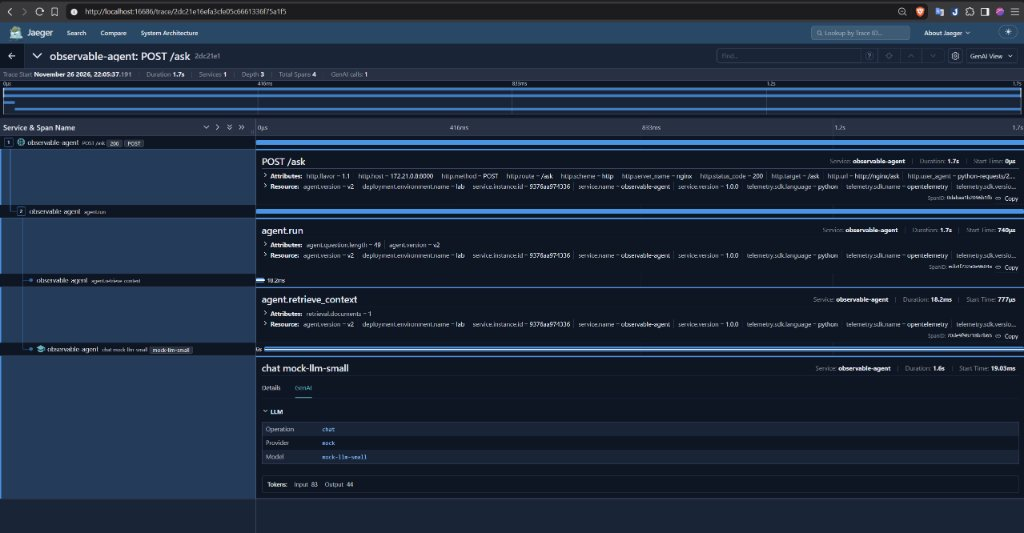
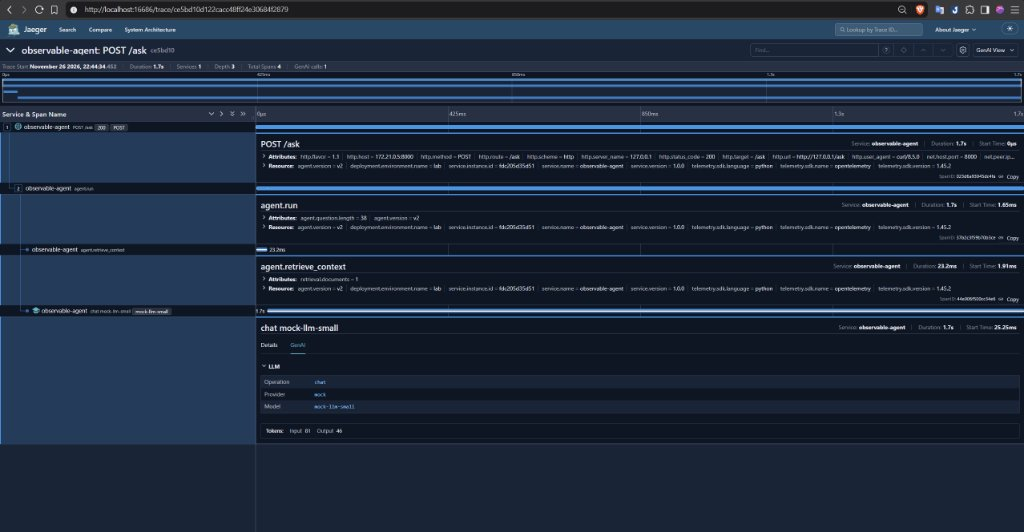
fix: add Exercise 7.1 histogram, slow trace JSON logs, and report refinements

diff --git a/06-lab-complete/benchmark-observability/develop/app.py b/06-lab-complete/benchmark-observability/develop/app.py
@@ -98,6 +98,11 @@ AGENT_INFO = Gauge(
 )
 AGENT_INFO.labels(version=AGENT_VERSION, model=LLM_MODEL).set(1)
 
+QUESTION_LENGTH = Histogram(
+    "agent_question_length_chars", "Độ dài câu hỏi (ký tự)",
+    buckets=(20, 50, 100, 200, 500, 1000, 2000),
+)
+
 # ─────────────────────────────────────────────────────────
 # App
 # ─────────────────────────────────────────────────────────
@@ -154,6 +159,7 @@ class AskResponse(BaseModel):
 
 @app.post("/ask", response_model=AskResponse)
 async def ask(body: AskRequest, request: Request):
+    QUESTION_LENGTH.observe(len(body.question))
     # v2 có bước retrieval (RAG) → chính xác hơn nhưng prompt dài hơn → tốn token hơn
     context = await mock_llm.search_knowledge_base(body.question) if AGENT_VERSION == "v2" else None
 

diff --git a/BENCHMARK_REPORT.md b/BENCHMARK_REPORT.md
@@ -20,6 +20,30 @@
 
 ## 2. Benchmark hiệu năng (develop, `load_test.py`)
 
+### Exercise 7.1 — Metrics & Cardinality (`develop/app.py`)
+
+- **3 loại metric quan sát được từ `/metrics`:**
+  - `http_requests_total{method="POST",route="/ask",status="200"} 1.0` → **Counter** (chỉ tăng, dùng với `rate()` để tính RPS).
+  - `agent_in_flight_requests 0.0` → **Gauge** (lên xuống, theo dõi số request đang xử lý tại thời điểm hiện tại).
+  - `http_request_duration_seconds_bucket{...}` → **Histogram** (phân bố độ trễ vào các bucket để tính `p50`/`p95`/`p99` qua `histogram_quantile()`).
+- **Vì sao middleware `observe_requests` dùng `route.path` (và `unmatched`) thay vì `request.url.path`?** Nếu dùng URL thô làm label, khi bot quét gửi hàng nghìn đường dẫn lạ như `/wp-admin`, `/.env`, `/a1b2c3`, mỗi URL tạo ra một time series mới làm **cardinality bùng nổ** và ngốn hết RAM của Prometheus. Dùng `route.path` template và gom URL không khớp vào `unmatched` giúp số lượng giá trị label hữu hạn.
+- **Bổ sung metric `agent_question_length_chars` (`Histogram`) vào `develop/app.py` và kiểm chứng `/metrics` sau khi gọi `POST /ask`:**
+
+```text
+http_requests_total{method="POST",route="/ask",status="200"} 1.0
+agent_in_flight_requests 0.0
+agent_question_length_chars_bucket{le="20.0"} 0.0
+agent_question_length_chars_bucket{le="50.0"} 1.0
+agent_question_length_chars_bucket{le="100.0"} 1.0
+agent_question_length_chars_bucket{le="200.0"} 1.0
+agent_question_length_chars_bucket{le="500.0"} 1.0
+agent_question_length_chars_bucket{le="1000.0"} 1.0
+agent_question_length_chars_bucket{le="2000.0"} 1.0
+agent_question_length_chars_bucket{le="+Inf"} 1.0
+agent_question_length_chars_count 1.0
+agent_question_length_chars_sum 40.0
+```
+
 ### 2.1 Concurrency vs latency (agent v2)
 
 *(Nguồn: `reports/load_v2_c1.json`, `load_v2_c10.json`, `load_v2_c50.json`, `load_v2_c100.json`, mỗi mức 300 requests, SLO p95 ≤ 500ms, error rate ≤ 2.0%)*
@@ -76,7 +100,7 @@ Agent `v2` (có bước retrieval RAG) tiêu tốn gấp ~1.9 lần token mỗi 
 
 **CI Quality Gate (`.github/workflows/eval.yml`):**
 
-Job CI khởi chạy agent `v2` với `MOCK_ERROR_RATE=0` và chạy `python eval/run_eval.py --url http://localhost:8000 --min-accuracy 0.85`. Script `run_eval.py` trả về **exit code `1`** nếu `accuracy < 0.85` hoặc có câu nào bị regression so với baseline, làm step CI fail và tự động chặn không cho merge Pull Request.
+Eval local với `--baseline` đã xác minh agent `v2` sau khi sửa `KNOWLEDGE_BASE` đạt **100.0% (23/23)** và **0 regression** (`eval_v2_fixed.json`). Về phần tự động hóa, workflow `.github/workflows/eval.yml` được cấu hình chạy khi có `pull_request` để kiểm tra ngưỡng `--min-accuracy 0.85` (hiện GitHub Actions chưa có lượt chạy do repo chỉ push trực tiếp lên `main`). Để bắt regression trên CI cần truyền thêm `--baseline`, và để tự động chặn merge cần bật job `eval` làm required status check trong cài đặt branch protection của GitHub.
 
 ---
 
@@ -116,9 +140,15 @@ Job CI khởi chạy agent `v2` với `MOCK_ERROR_RATE=0` và chạy `python eva
 
 **1. Trace chậm nhất tìm được trong Jaeger (`screenshots/jaeger-slow-trace.png`):**
 
-- `trace_id`: `2dc21e16efa3cfe05c6661336f75a1f5`
-- Tổng thời gian (`POST /ask` → `agent.run`): `1.7s` (~`1700 ms`)
-- Span chiếm nhiều thời gian nhất: `chat mock-llm-small` (`1.6s` / `1600 ms`, chiếm **~94%** tổng thời gian; bước `agent.retrieve_context` chỉ mất `18.2 ms` — chứng minh nút thắt là tail latency phía LLM chứ không phải retrieval).
+- `trace_id`: `ce5bd10d122cacc48ff24e30684f2879`
+- Tổng thời gian (`POST /ask`): `1699.3 ms` (`~1.70 s`; `agent.run`: `1696.7 ms`)
+- Span chiếm nhiều thời gian nhất: `chat mock-llm-small` (`1672.9 ms`, chiếm **98.4%** tổng thời gian; bước `agent.retrieve_context` chỉ mất `23.2 ms` — chứng minh nút thắt là tail latency phía LLM chứ không phải retrieval).
+- Dòng log JSON tương ứng (grep theo `trace_id`):
+
+```json
+{"ts": "2026-11-26T15:44:36.151054+00:00", "level": "INFO", "service": "observable-agent", "instance": "fdc205d35d51", "event": "llm_call", "trace_id": "ce5bd10d122cacc48ff24e30684f2879", "span_id": "023d6a93045dc4fa", "request_id": "01630a4ca717", "model": "mock-llm-small", "agent_version": "v2", "input_tokens": 81, "output_tokens": 46, "cost_usd": 4e-05, "llm_ms": 1672.9}
+{"ts": "2026-11-26T15:44:36.151531+00:00", "level": "INFO", "service": "observable-agent", "instance": "fdc205d35d51", "event": "http_request", "trace_id": "ce5bd10d122cacc48ff24e30684f2879", "span_id": "023d6a93045dc4fa", "request_id": "01630a4ca717", "method": "POST", "route": "/ask", "status": 200, "ms": 1698.6}
+```
 
 **2. Trace lỗi khớp log JSON (`screenshots/jaeger-error-trace.png`):**
 
@@ -143,7 +173,7 @@ Job CI khởi chạy agent `v2` với `MOCK_ERROR_RATE=0` và chạy `python eva
 
 **Giải thích kết quả:** Scale có cải thiện p95 không? Nút thắt nằm ở đâu?
 
-Scale từ `1` lên `3` instance giữ nguyên RPS (`~61 req/s`) và hầu như **không làm thay đổi `p95`** (`230 ms` → `220 ms`, `p50` giữ `190 ms`, `p99` giữ `1700 ms`). Lý do gồm hai điểm:
+Scale từ `1` lên `3` instance giữ nguyên RPS (`~61 req/s`) và hầu như **không làm thay đổi `p95`**: ở dòng `Aggregated` (gộp `/ask` và `/health`), `p95` giảm nhẹ từ `230 ms` → `220 ms`, còn xét riêng endpoint `POST /ask` thì `p95` vẫn giữ nguyên **`230 ms` → `230 ms`** (`p50` giữ `190 ms`, `p99` giữ `1700 ms`). Lý do gồm hai điểm:
 1. Ở mức tải 100 user có `wait_time = between(0.5, 2)` giây trong `locustfile.py`, tổng lưu lượng sinh ra chỉ khoảng ~61 req/s — 1 instance FastAPI bất đồng bộ (`async`) chưa bị bão hòa CPU, nên tăng lên 3 instance không làm RPS tăng thêm.
 2. **Nút thắt nằm ở latency phía upstream LLM** (`MOCK_LATENCY_MS=120ms + jitter + tail 1500ms`, thể hiện rõ trên Jaeger ở span `chat mock-llm-small` chiếm ~94% thời gian xử lý). Việc tăng số container agent chỉ tăng khả năng chịu tải đồng thời khi CPU bão hòa, không rút ngắn được thời gian chờ mỗi lần gọi LLM.
 

diff --git a/MISSION_ANSWERS.md b/MISSION_ANSWERS.md
@@ -403,6 +403,6 @@ Kết quả chạy đầy đủ `python check_production_ready.py` trong `06-lab
   - *Đã nhận:* Mã nguồn cập nhật `mock_llm.py` (develop & production), `.github/workflows/eval.yml` và bảng số liệu đối chiếu khớp file JSON.
   - *Tự kiểm tra:* Tự chạy toàn bộ load test (`c=1, 10, 50, 100` và `MOCK_SLOW_RATE=0, 0.03, 0.1`), tự chạy eval `v1`, `v2` và `eval_v2_fixed.json` xác nhận đạt `23/23 (100.0%)` với `0` regression.
 - **CP8 (Part 7 Bước 2):**
-  - *Đã hỏi AI:* Debug lỗi `ModuleNotFoundError: No module named 'uvicorn'` trong `06-lab-complete/benchmark-observability/production/Dockerfile`, hướng dẫn vận hành full stack (`-p k5-day14-observability`), chạy đo kiểm bổ sung Exercise 7.4/7.6 và hoàn thiện `BENCHMARK_REPORT.md`.
-  - *Đã nhận:* Bổ sung `ENV PYTHONUSERBASE=/home/agent/.local` vào `production/Dockerfile` (khớp với pattern ở Part 5), cấu trúc đối chiếu số liệu từ CSV/Prometheus/Jaeger.
-  - *Tự kiểm tra:* Tự chạy `locust` headless tạo `scale_1_stats.csv` và `scale_3_stats.csv` sau khi fix Dockerfile, tự chạy Locust UI xem Grafana, truy vết trace chậm (`2dc21e16efa3cfe05c6661336f75a1f5`) & trace lỗi (`1062d42657c7929632ca419ad78233f0`) kèm JSON log, kích hoạt 2 alert `AgentHighErrorRate` + `AgentHighLatencyP95` cùng firing trên Prometheus (`promtool test rules` → `SUCCESS`).
+  - *Đã hỏi AI:* Debug lỗi `ModuleNotFoundError: No module named 'uvicorn'` trong `06-lab-complete/benchmark-observability/production/Dockerfile`, hướng dẫn vận hành full stack (`-p k5-day14-observability`), chạy đo kiểm bổ sung Exercise 7.1/7.4/7.6 và hoàn thiện `BENCHMARK_REPORT.md`.
+  - *Đã nhận:* Bổ sung `ENV PYTHONUSERBASE=/home/agent/.local` vào `production/Dockerfile` (khớp với pattern ở Part 5), thêm `agent_question_length_chars` (`Histogram`) vào `develop/app.py`, cập nhật đối chiếu số liệu từ CSV/Prometheus/Jaeger.
+  - *Tự kiểm tra:* Kiểm chứng `/metrics` xuất hiện `agent_question_length_chars_bucket`/`_count`/`_sum`, tự chạy `locust` headless tạo `scale_1_stats.csv` và `scale_3_stats.csv`, tự chạy Locust UI xem Grafana, truy vết trace chậm (`ce5bd10d122cacc48ff24e30684f2879`, kèm log JSON `llm_call` & `http_request`) & trace lỗi (`1062d42657c7929632ca419ad78233f0`) trên Jaeger, kích hoạt 2 alert `AgentHighErrorRate` + `AgentHighLatencyP95` cùng firing trên Prometheus (`promtool test rules` → `SUCCESS`).
